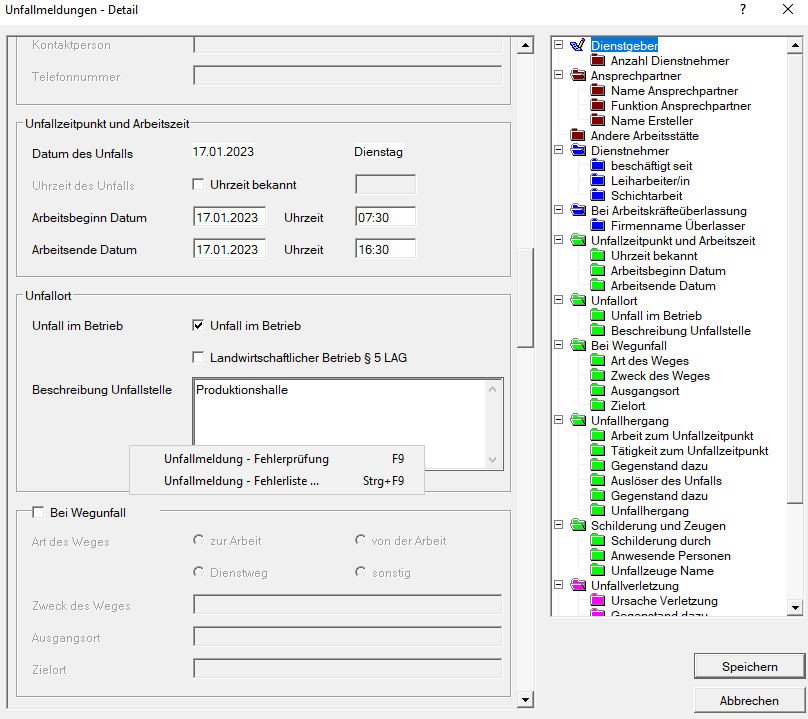
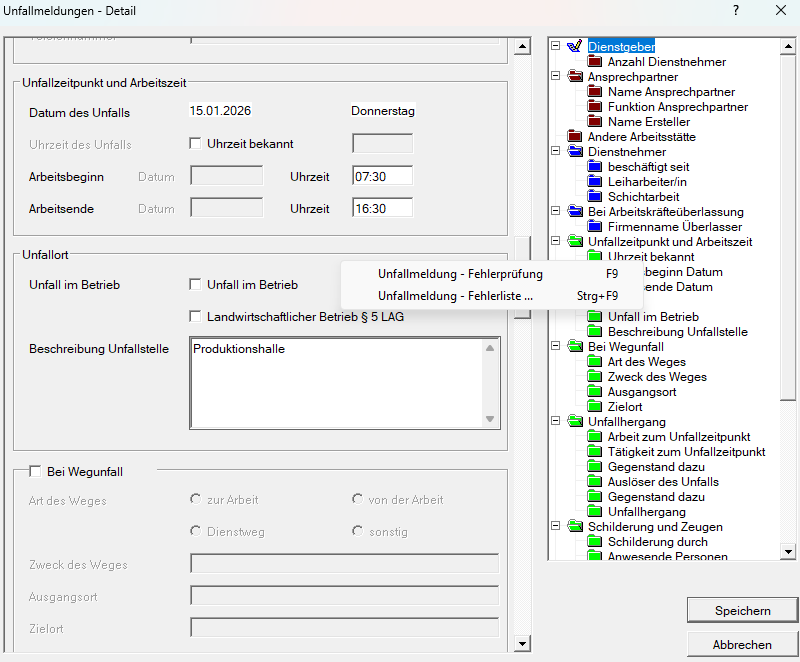
AUVA Unfallmeldung - Screens angepasst

diff --git a/docs/LOHN/Abrechnungsbildschirme/Sozialversicherung.md b/docs/LOHN/Abrechnungsbildschirme/Sozialversicherung.md
@@ -106,7 +106,7 @@ Bei fallweise beschäftigten Dienstnehmern sind am Kalenderblatt die Tage der fa
 
 Die Option *L16 monatlich* ist voreingestellt und ermöglicht die monatliche Übermittlung des L16. Die *BV-Beitragspflicht* und der *Beginn der BV-Pflicht* werden automatisch ermittelt.
 
-Wenn die einzelnen Tage unterschiedlich entlohnt werden, müssen die Bezüge pro Tag durch Anwahl der Schaltfläche *abw. Verteilung der Bezüge* im Detail erfasst werden. Sie haben hier ebenfalls die Möglichkeit, eine abweichende täglich vereinbarte Arbeitszeit für die Anmeldung zu erfassen.
+Wenn die einzelnen Tage unterschiedlich entlohnt werden, müssen die Bezüge pro Tag durch Anwahl der Schaltfläche *abw. Verteilung der Bezüge* im Detail erfasst werden. Sie haben hier ebenfalls die Möglichkeit, eine täglich vereinbarte Arbeitszeit für die Anmeldung zu erfassen.
 
 ![Image](img/image150.png)
 
